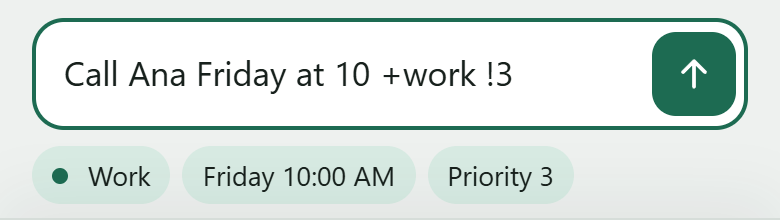
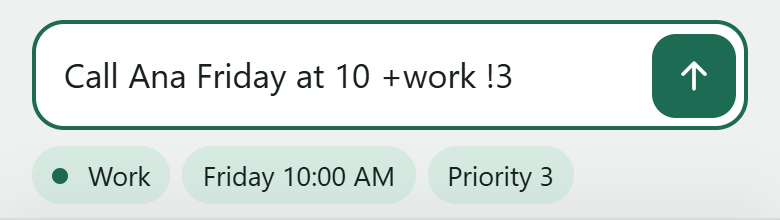
README: editing pass and mini screenshots for the non-obvious parts
Adds small capture-bar strips for tapping a chip off, pasting a list
under a first line, and creating a project, plus the offline look, and
retakes the quick-add strip so all five match. Quick add now opens with
the prefix modes, the outdated "3/4 inch" example is replaced, Offline
gets its own section, the sign-in text matches the app's hint, and the
four test files are listed one per line.

diff --git a/README.md b/README.md
@@ -2,7 +2,7 @@
 
 A single-file mobile web app for [Vikunja](https://vikunja.io), served by Vikunja itself.
 
-Vikunja's web app works on a phone, but it's built for a bigger screen. Pocket is a small companion for what you usually need on the go: seeing what's due and adding a task quickly. Everything else stays in Vikunja.
+Vikunja's web app works on a phone, but it's built for a bigger screen. Pocket is a small companion for what you need on the go: seeing what's due and adding tasks quickly. Projects, boards, sharing and settings stay in Vikunja.
 
 <table>
   <tr>
@@ -24,51 +24,67 @@ Vikunja's web app works on a phone, but it's built for a bigger screen. Pocket i
 ## What you get
 
 - **Today:** tasks grouped into Overdue, Today and Next 7 days. Tick one off and it slides away, with an Undo.
-- **Quick add:** type a task in one line with a date, project, priority, labels and people. Chips under the box show what will be saved before you send it.
-- **Paste a list:** paste lines from an email or a note and each one becomes a task. Bullets, numbering and checkboxes are removed, and one tap makes the rest subtasks of the first line.
-- **Task details:** due date, repeat, project, priority, who it's assigned to, labels, notes, subtasks, attachments and comments. Changes save as you make them, and you can add subtasks one at a time or paste a list.
-- **Projects:** your project tree with favorites, and open or done tasks for each project.
-- **Works offline:** Pocket opens without a connection and shows your lists as they were last loaded. Tasks you add appear in your list, lightly tinted with a dashed circle, until they reach Vikunja once you're back online. A connection that drops halfway doesn't add them twice.
-- **An app on your home screen:** installs on iOS and Android and follows the phone's light or dark mode.
-- **A shortcut link:** opening `…/#/add?text=Buy+milk` starts a task with the text filled in, handy from an iOS Shortcut or a bookmark.
+- **Quick add:** a task in one line, with its date, repeat, project, priority, labels and people.
+- **Paste a list:** each line of a list from an email or a note becomes a task, optionally as subtasks of the first.
+- **Task details:** due date, repeat, project, priority, people, labels, notes, subtasks, attachments and comments. Changes save as you make them.
+- **Projects:** your project tree with favorites, and the open or done tasks in each.
+- **Offline:** Pocket opens without a connection, and tasks you add are sent once you're back online.
+- **Your Vikunja sign-in:** sign in once, with your usual login, and Pocket and Vikunja's web app are both signed in on that device.
+- **A home-screen app** for iOS and Android that follows the phone's light or dark mode.
+- **A shortcut link:** `…/#/add?text=Buy+milk` opens Pocket with the text filled in, handy from an iOS Shortcut or a bookmark.
 
-### Quick add
+## Quick add
 
-Pocket understands the prefixes and phrases from Vikunja's [Quick Add Magic](https://vikunja.io/help/quick-add-magic/) (in its default mode). As you type, chips show what will be saved. If Pocket reads something you didn't mean, like `3/4 inch` as March 4, tap the chip and those words stay in the title.
+Quick add uses the prefixes and phrases of Vikunja's [Quick Add Magic](https://vikunja.io/help/quick-add-magic/), and follows your setting for it in Vikunja: the prefixes below, Todoist-style ones (`#project`, `@label`, `+person`), or none. As you type, chips under the box show what will be saved.
 
 <img src="docs/screenshots/pocket-capture.png" width="390" alt="Typing 'Call Ana Friday at 10 +work !3' shows chips for Work, Friday 10:00 AM and Priority 3">
 
 | Type | Sets |
 |---|---|
-| `+work` or `+"Side project"` | Project (its full name or the start of it). If there's no such project, tap **Create project** under the box to make it. |
-| `*calls` or `*"follow up"` | Label (created if it doesn't exist) |
-| `@sarah` | Assignee (their username; it stays in the title, as in Vikunja) |
+| `+work` or `+"Side project"` | Project: its full name or the start of it |
+| `*calls` or `*"follow up"` | Label, created if it doesn't exist |
+| `@sarah` | Person to assign, by username. It stays in the title, as in Vikunja. |
 | `!1` to `!5` | Priority |
 | `today`, `tonight`, `tomorrow`, `this weekend`, `later this week`, `next week`, `next month`, `end of month` | Due date |
 | `friday` or `fri`, `next monday`, `in 3 days`, `in 2 hours` | Due date |
-| `Oct 12`, `21st June`, `2026-10-12`, `10/12`, `01.02`, `17th` | Due date. Numbers-only dates and a bare `17th` count only at the start or end, so "The 9/11 Report" stays as it is. |
-| `at 5pm`, `at 17:30`, `@ 3pm` | Due time. Without one, the task is due at your default due time from Vikunja's settings (noon unless you changed it). |
-| `every day`, `every 3 days`, `every two weeks`, `every month`, `every year`, `daily`, `weekly`, `biannually` | Repeats. Without a date, it starts at the next due time. |
+| `Oct 12`, `21st June`, `2026-10-12`, `10/12`, `01.02`, `17th` | Due date. Dates in numbers only, and a bare `17th`, count only at the start or end, so "The 9/11 Report" stays as it is. |
+| `at 5pm`, `at 17:30`, `@ 3pm` | Due time. Without one, the task is due at your default due time from Vikunja's settings, noon unless you changed it. |
+| `every day`, `every 3 days`, `every two weeks`, `every month`, `every year`, `daily`, `weekly`, `biannually` | Repeat. Without a date, it starts at the next due time. |
 
-Wrap the whole text in quotes to turn all of this off: `"Read 1984 by Friday"`.
+If Pocket reads something you didn't mean, tap its chip and those words stay in the title. Tap again to undo. To turn it all off for one task, wrap the whole text in quotes: `"Read 1984 by Friday"`.
 
-With more than one line in the box, each line is its own task with its own shortcuts. **↳ Under first line** turns the rest into subtasks of the first.
+<img src="docs/screenshots/pocket-chip-undo.png" width="390" alt="'Watch Monday night football' with the Monday chip tapped off and struck through">
 
-The phrases and their meanings are taken from Vikunja's own tests, so the same text gives the same task in both apps. Pocket differs on purpose in a few places:
+**Pasting a list.** With more than one line in the box, each line becomes a task with its own shortcuts, and bullets, numbering and checkboxes are removed. **↳ Under first line** makes the rest subtasks of the first.
+
+<img src="docs/screenshots/pocket-paste-list.png" width="390" alt="A pasted grocery list with 'Under first line' turned on, showing '1 task + 3 subtasks'">
+
+**New projects.** If a `+project` doesn't exist yet, tap **Create project** to make it. The task goes there when you send it.
+
+<img src="docs/screenshots/pocket-new-project.png" width="390" alt="'Call contractor friday +Kitchen' with a 'Create project Kitchen' chip">
+
+The phrases and their meanings come from Vikunja's own tests, so the same text gives the same task in both apps. Pocket differs on purpose in a few places:
 
 - `every month` repeats on the same day each month. Vikunja's quick add uses every 30 days.
-- Dates always mean the next one: in June, `2nd March` is next March. Vikunja sometimes picks the date that has passed.
-- `10/12` follows your phone's region (12 October in most places); Vikunja always reads it US-style.
-- Pocket also understands `every monday`, `the 17th` anywhere in the text, and drops a word like "by" or "in" along with its date.
+- Dates always mean the next one: in June, `2nd March` is next March. Vikunja sometimes picks a date that has passed.
+- `10/12` follows your phone's region, which is 12 October in most places. Vikunja always reads it US-style.
+- Pocket also understands `every monday` and `the 17th` anywhere in the text, and drops a word like "by" or "in" along with its date.
+- Subtasks marked by indenting aren't supported; use **↳ Under first line**.
 
-Pocket follows your Quick Add Magic setting in Vikunja: the default prefixes above, Todoist-style ones (`#project`, `@label`, `+person`), or none at all. Subtasks marked by indenting aren't supported.
+## Offline
+
+Pocket opens without a connection and shows your lists as they were last loaded. A task you add appears in its list with a light tint and a dashed circle, and turns into a normal task once it reaches Vikunja. Tap × to cancel it. Pocket sends waiting tasks when it's opened, when it comes back to the front and when the connection returns. A connection that drops halfway doesn't add a task twice.
+
+<img src="docs/screenshots/pocket-offline.png" width="390" alt="Pocket offline: a banner saying when the list was loaded, and 'Call the plumber' tinted in Next 7 days">
+
+Only new tasks work offline. Ticking off or editing a task needs a connection. On an iPhone, waiting tasks are sent the next time Pocket is opened, since iPhones don't let web apps send in the background.
 
 ## Setup
 
-Pocket runs as a plugin inside your Vikunja. Vikunja serves it at `https://<your Vikunja>/api/v1/plugins/pocket/`, so there's nothing else to host and nothing to set up besides turning plugins on. It needs Vikunja 2.3 or later, and is tested with 2.6.0.
+Pocket runs as a plugin inside your Vikunja, which serves it at `https://<your Vikunja>/api/v1/plugins/pocket/`. There's nothing else to host. It needs Vikunja 2.3 or later, and is tested with 2.6.0.
 
 1. **Copy the `pocket` folder** from this repo into Vikunja's `plugins` folder, so that you have `plugins/pocket/main.go` and `plugins/pocket/app/index.html`.
-   - On Cloudron, open the Vikunja app's **File Manager** and put it at `/app/data/plugins/pocket/`. Create the `plugins` folder if it isn't there.
+   - On Cloudron, use the Vikunja app's **File Manager** to put it at `/app/data/plugins/pocket/`. Create the `plugins` folder if it isn't there.
    - Elsewhere, `plugins` goes in Vikunja's root path: `service.rootpath` in its config, or the folder Vikunja runs in.
 
 2. **Turn plugins on** in Vikunja's `config.yml` (`/app/data/config.yml` on Cloudron), then restart Vikunja:
@@ -82,15 +98,15 @@ Pocket runs as a plugin inside your Vikunja. Vikunja serves it at `https://<your
    Vikunja's log should now include `pocket: serving … at /api/v1/plugins/pocket/`.
 
 3. **Open Pocket on your phone** at `https://<your Vikunja>/api/v1/plugins/pocket/` and sign in. Pocket offers whatever your Vikunja does:
-   - **Sign in with …** for each single sign-on provider Vikunja is set up with, such as Cloudron's login.
+   - **Sign in with …** for each single sign-on provider Vikunja uses, such as Cloudron's login.
    - **Password**, if your server has local or LDAP accounts.
-   - **API token**, as a fallback. In Vikunja, go to *Settings → API Tokens*, choose the **Task Management** preset, and also tick **User** and **Users** under *Other*. *Users* lets Pocket find people by username for `@sarah`. To create projects from quick add, also tick **Create** under *Projects*.
+   - **API token**, as a fallback. In Vikunja, go to *Settings → API Tokens*, choose the **Task Management** preset, and also tick **User** and **Users** under *Other*. *Users* lets Pocket find people for `@sarah`. To create projects from quick add, also tick **Create** under *Projects*.
 
-   Single sign-on and password sign-in are shared with Vikunja's own web app on that device: sign in to either and the other is signed in too, and the same goes for signing out. In a browser, single sign-on opens in a new tab that closes by itself when you're done. In the home-screen app it opens in the same window and ends on Vikunja's page; go back to Pocket and it's signed in.
+   Single sign-on and password sign-in are shared with Vikunja's web app on that device: sign in or out of either, and the other follows. In a browser, single sign-on opens a new tab that closes by itself. In the home-screen app it opens in the same window and ends on Vikunja's page; close that page to come back to Pocket.
 
 4. **Add it to your home screen** from the browser's Share or menu button.
 
-**Updating:** replace the files in `plugins/pocket/app/` and reload Pocket. Only a changed `main.go` needs a Vikunja restart.
+**Updating:** replace the files in `plugins/pocket/app/`, then reopen Pocket while online. Only a changed `main.go` needs a Vikunja restart.
 
 ### Troubleshooting
 
@@ -100,24 +116,24 @@ Pocket runs as a plugin inside your Vikunja. Vikunja serves it at `https://<your
   - Nothing at all: plugins aren't turned on, or Vikunja hasn't been restarted since.
 - **"Too many attempts from here":** Vikunja allows 10 sign-in attempts a minute from one address. Wait a minute.
 - **"That token didn't work":** the token has expired, or **User** under *Other* isn't ticked.
-- **"Your API token doesn't allow this":** the token is missing a permission, for example **Users** when you use `@name`. Vikunja can't add permissions to an existing token, so create a new one.
+- **"Your API token doesn't allow this":** the token is missing a permission, such as **Users** for `@name` or **Projects → Create** for new projects. Vikunja can't add permissions to an existing token, so create a new one.
 - **"This user does not have access to the project":** you can only assign people the project is shared with.
 
 ## Privacy and security
 
-- Pocket has no server of its own. Vikunja serves its files, and it only talks to that same Vikunja.
-- The plugin only reads the files in its `app/` folder, and it runs inside Vikunja, so read `pocket/main.go` before installing it. It's about 100 lines.
-- For offline use, Pocket keeps a copy of the lists it last loaded, and any tasks waiting to be sent, in the browser on that device. Signing out removes them; if tasks are still waiting, Pocket asks first.
-- Pocket doesn't keep a sign-in of its own, apart from an API token if you use one. It uses Vikunja's, stored in the browser where Vikunja's web app keeps it, and renews it the way Vikunja does. Signing out removes it. To revoke an API token entirely, delete it in Vikunja.
-- Notes and comments are cleaned before they're shown. Attachments other than images, PDFs and plain text are downloaded instead of opened. Together, these stop content from people you share projects with from running code inside Pocket, which shares its web address with Vikunja.
+- Pocket has no server of its own. Vikunja serves its files, and Pocket only talks to that same Vikunja.
+- The plugin only reads the files in its `app/` folder. It runs inside Vikunja, so read `pocket/main.go` before installing it; it's about 100 lines.
+- Pocket uses Vikunja's own sign-in, stored in the browser where Vikunja's web app keeps it, and renews it the way Vikunja does. An API token, if you use one, is kept by Pocket alone. To revoke a token entirely, delete it in Vikunja.
+- For offline use, Pocket keeps the lists it last loaded, and any tasks waiting to be sent, in the browser on that device. Signing out removes them, and asks first if tasks are still waiting.
+- Notes and comments are cleaned before they're shown, and attachments other than images, PDFs and plain text are downloaded instead of opened. Together, these stop content from people you share projects with from running code inside Pocket, which shares its web address with Vikunja.
 
 ## Development
 
 ```
 pocket/        copy this folder into Vikunja's plugins folder
   main.go      the plugin: serves app/ at /api/v1/plugins/pocket/
-  app/         the app itself (sw.js lets it open offline)
-tests/         phrase tests and the end-to-end test
+  app/         the app itself; sw.js lets it open offline
+tests/         the four test files described below
 scripts/       dev.mjs: a local Vikunja with the plugin loaded
 docs/          screenshots
 ```
@@ -136,23 +152,26 @@ npm install
 npm run dev
 ```
 
-This starts a throwaway Vikunja 2.6.0 at `http://127.0.0.1:3456` with the plugin loaded straight from `pocket/`, plus a mock single sign-on provider, and prints Pocket's address. Sign in as `dev` / `dev-password`, or with **Mock SSO**. Edits to `pocket/app/` show up when you reload; after changing `main.go`, run `npm run dev` again.
+This starts a throwaway Vikunja 2.6.0 at `http://127.0.0.1:3456`, with the plugin loaded straight from `pocket/` and a mock single sign-on provider, and prints Pocket's address. Sign in as `dev` / `dev-password`, or with **Mock SSO**. Edits to `pocket/app/` show up when you reload; after changing `main.go`, run `npm run dev` again.
 
 ### Tests
 
-`tests/parse.mjs` checks how quick add reads about 570 phrases, adapted from Vikunja's Quick Add Magic tests. It needs no server and runs in a few seconds. `tests/smoke.mjs` drives Pocket in a headless browser against a Vikunja with the plugin installed. It signs in with a token, quick-adds, ticks off and undoes, edits, comments, completes and deletes tasks, pastes a list with subtasks, assigns someone, and checks the security measures. `tests/session.mjs` uses Pocket and Vikunja's web app side by side: signing in and out on either side, single sign-on, and renewing an expired sign-in from both at once. `tests/offline.mjs` cuts the connection: Pocket must open with the last-loaded list, queue tasks and pasted lists, send them once back online, and not add a task twice when its reply is lost.
+- `tests/parse.mjs`: how quick add reads about 570 phrases, adapted from Vikunja's Quick Add Magic tests. It needs no server and runs in a few seconds.
+- `tests/smoke.mjs`: Pocket in a headless browser against a Vikunja with the plugin. It signs in with a token, then adds, ticks off, edits, comments on and deletes tasks, pastes a list with subtasks, creates a project, assigns someone, and checks the security measures.
+- `tests/session.mjs`: Pocket and Vikunja's web app side by side: signing in and out on either side, single sign-on, and renewing an expired sign-in from both at once.
+- `tests/offline.mjs`: with the connection cut, Pocket must open with the last-loaded list and queue tasks, then send them once back online without adding any twice. `BROWSER=webkit` runs it on Safari's engine.
 
 ```sh
 npx playwright install chromium    # once; or set BROWSER_CHANNEL=msedge or chrome
 npm run test:parse                 # phrases only
-npm run test:local                 # starts the local Vikunja (with a mock single sign-on provider) and runs all four
+npm run test:local                 # starts the local Vikunja and runs all four
 
 # against a real server with the plugin installed (use a test account)
 VIKUNJA_URL=https://tasks.example.com VIKUNJA_TOKEN=tk_... npm test
 # add ASSIGNEE=sarah ASSIGNEE_PROJECT="Team" to test @assignee: a project shared with that user, and a token with Other → Users
 ```
 
-The end-to-end test deletes the tasks it creates, but leaves behind a `pocket-smoke` label that it reuses on later runs, since Task Management tokens can't delete labels.
+The tests delete what they create, except a `pocket-smoke` label that the end-to-end test reuses on later runs, since Task Management tokens can't delete labels. With a token that can't create projects, the project step is skipped.
 
 ## License
 
